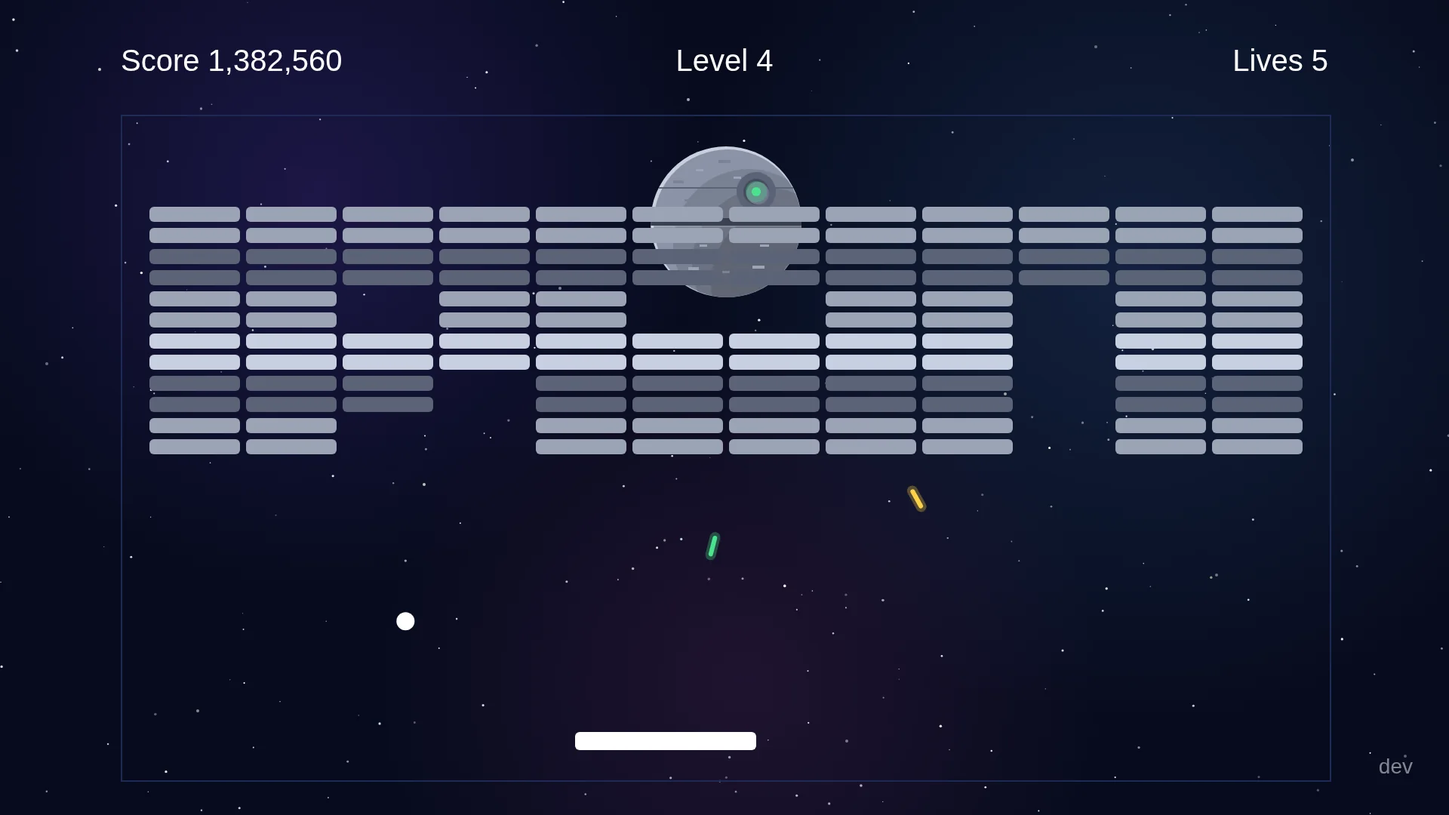
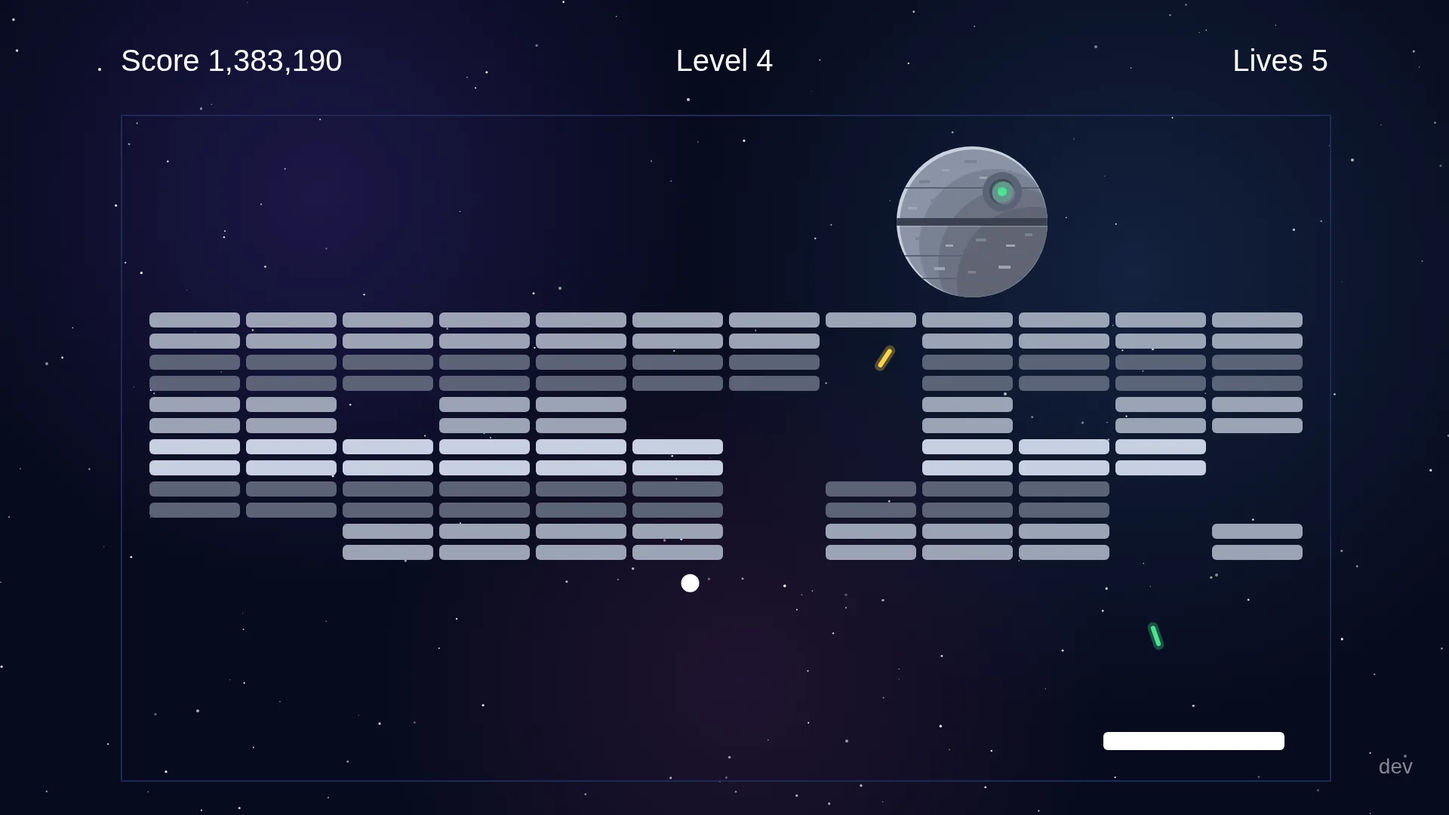
feat(site): show the level chooser and the sliding, wall-cutting station
Re-capture the title screen (now with the Level N chooser) and level 4
(station off-centre and charging, a green bolt coming down, a gold bolt
going up through the channel it has cut), and bring both pages in line
with specs 08 and 09: the station slides, batted-back bolts cut through
every brick, and the starting level is chosen on the title screen.
Re-render og.png from the new level 4 shot.

diff --git a/website/fa/index.html b/website/fa/index.html
@@ -22,26 +22,26 @@
   <meta property="og:url" content="https://breakout.cocode.dk/fa/" />
   <meta property="og:image" content="https://breakout.cocode.dk/og.png" />
   <meta property="og:image:width" content="1200" /><meta property="og:image:height" content="630" />
-  <meta property="og:image:alt" content="نوشتهی Breakout کنار تلویزیونی که مرحلهی ۴ را نشان میدهد: دیواری خاکستری با ایستگاه جنگی خاکستری پشت آن، تیری سبز که به سمت راکت میآید و تیری طلایی که برمیگردد." />
+  <meta property="og:image:alt" content="نوشتهی Breakout کنار تلویزیونی که مرحلهی ۴ را نشان میدهد: دیواری خاکستری با ایستگاه جنگی خاکستری پشت آن، تیری سبز که به سمت راکت میآید و تیری طلایی که از راهی که در دیوار باز کرده بالا میرود." />
   <meta property="og:locale" content="fa_IR" /><meta property="og:locale:alternate" content="en_US" />
   <meta name="twitter:card" content="summary_large_image" />
   <meta name="twitter:title" content="Breakout برای تلویزیون سامسونگ: چهار دیوار، یک بشقابپرنده و یک غول آخر" />
   <meta name="twitter:description" content="آجرشکن آرکیدی برای تلویزیونهای سامسونگ ۲۰۲۱. از چهار دیوار بگذرید، به بشقابپرنده بزنید، تیرهای ایستگاه را برای ۱٬۰۰۰ امتیاز پس بزنید، و هر جانی که نگه دارید امتیازتان را چند برابر میکند." />
   <meta name="twitter:image" content="https://breakout.cocode.dk/og.png" />
-  <meta name="twitter:image:alt" content="نوشتهی Breakout کنار تلویزیونی که مرحلهی ۴ را نشان میدهد: دیواری خاکستری با ایستگاه جنگی خاکستری پشت آن، تیری سبز که به سمت راکت میآید و تیری طلایی که برمیگردد." />
+  <meta name="twitter:image:alt" content="نوشتهی Breakout کنار تلویزیونی که مرحلهی ۴ را نشان میدهد: دیواری خاکستری با ایستگاه جنگی خاکستری پشت آن، تیری سبز که به سمت راکت میآید و تیری طلایی که از راهی که در دیوار باز کرده بالا میرود." />
   <script type="application/ld+json">
   {
     "@context": "https://schema.org", "@type": "SoftwareApplication", "name": "Breakout",
-    "description": "آجرشکن آرکیدی برای تلویزیونهای سامسونگ ۲۰۲۱ که با کیبورد یا کنترل تلویزیون روی آسمانی پرستاره بازی میشود. پشت سه دیوار یک بشقابپرنده است و پشت چهارمی ایستگاهی جنگی که تیر میزند؛ جانهایی که نگه میدارید امتیازتان را چند برابر میکنند. یک برنامهی وب تایزن، رایگان و متنباز، که در حالت توسعهدهنده نصب میشود.",
+    "description": "آجرشکن آرکیدی برای تلویزیونهای سامسونگ ۲۰۲۱ که با کیبورد یا کنترل تلویزیون روی آسمانی پرستاره بازی میشود. پشت سه دیوار یک بشقابپرنده است و پشت چهارمی ایستگاهی جنگی که آرام به چپ و راست میرود و تیر میزند؛ مرحلهی شروع را خودتان انتخاب میکنید و جانهایی که نگه میدارید امتیازتان را چند برابر میکنند. یک برنامهی وب تایزن، رایگان و متنباز، که در حالت توسعهدهنده نصب میشود.",
     "url": "https://breakout.cocode.dk/fa/", "downloadUrl": "https://github.com/cocodedk/breakout-tv/releases/latest",
     "screenshot": [
       {"@type":"ImageObject","contentUrl":"https://breakout.cocode.dk/img/breakout-level-1-wall-ufo.webp","caption":"مرحلهی ۱: دیوار کامل و بشقابپرندهی پشت آن"},
       {"@type":"ImageObject","contentUrl":"https://breakout.cocode.dk/img/breakout-level-2-checkerboard.webp","caption":"مرحلهی ۲: دیوار شطرنجی"},
       {"@type":"ImageObject","contentUrl":"https://breakout.cocode.dk/img/breakout-level-3-pyramid.webp","caption":"مرحلهی ۳: هرم زیر آجرهای نقرهای"},
-      {"@type":"ImageObject","contentUrl":"https://breakout.cocode.dk/img/breakout-level-4-battle-station.webp","caption":"مرحلهی ۴: ایستگاه جنگی که تیر شلیک میکند"},
+      {"@type":"ImageObject","contentUrl":"https://breakout.cocode.dk/img/breakout-level-4-battle-station.webp","caption":"مرحلهی ۴: ایستگاه جنگی متحرک و تیری طلایی که دیوار را میشکافد"},
       {"@type":"ImageObject","contentUrl":"https://breakout.cocode.dk/img/breakout-lives-multiplier.webp","caption":"هفت جان مانده: امتیاز ضرب در ۷"},
       {"@type":"ImageObject","contentUrl":"https://breakout.cocode.dk/img/breakout-game-over-retry.webp","caption":"پایان بازی، با گزینهی تکرار مرحلهی ۴"},
-      {"@type":"ImageObject","contentUrl":"https://breakout.cocode.dk/img/breakout-title-screen.webp","caption":"صفحهی اول بازی"}],
+      {"@type":"ImageObject","contentUrl":"https://breakout.cocode.dk/img/breakout-title-screen.webp","caption":"صفحهی اول بازی، با انتخاب مرحله"}],
     "applicationCategory": "GameApplication", "operatingSystem": "Tizen 6.0 (Samsung Smart TV)", "inLanguage": "fa",
     "offers": { "@type": "Offer", "price": "0", "priceCurrency": "USD" },
     "author": { "@type": "Person", "name": "Babak Bandpey", "url": "https://cocode.dk",
@@ -91,16 +91,16 @@
         <div class="scr"><img src="../img/breakout-level-3-pyramid.webp" width="1920" height="1080" loading="lazy" alt="مرحلهی ۳: دو ردیف آجر نقرهای بالای هرمی وارونه از آجرهای قرمز، نارنجی، زرد، سبز و آبی، و بشقابپرنده بالای آنها." /></div>
         <figcaption><h3><span class="tag">مرحلهی ۳</span>هرم</h3><p>دو ردیف آجر نقرهای از بالای دیوار محافظت میکنند و هر آجر نقرهای دو ضربه میخواهد.</p></figcaption></figure></li>
       <li class="lv boss"><figure>
-        <div class="scr"><img src="../img/breakout-level-4-battle-station.webp" width="1920" height="1080" loading="lazy" alt="مرحلهی ۴: دیواری خاکستری با ایستگاه جنگی گرد و خاکستری پشت آن که بشقابش در حال آمادهشدن برای شلیک سبز میدرخشد. تیری سبز به سمت راکت پایین میآید و تیری طلایی به سمت ایستگاه برمیگردد. امتیاز ۱٬۳۸۲٬۵۶۰، ۵ جان." /></div>
+        <div class="scr"><img src="../img/breakout-level-4-battle-station.webp" width="1920" height="1080" loading="lazy" alt="مرحلهی ۴: دیواری خاکستری و بالای آن ایستگاه جنگی گرد و خاکستری، کمی به سمت راست، که بشقابش در حال آمادهشدن برای شلیک سبز میدرخشد. تیری سبز به سمت راکت پایین میآید و تیری طلایی از راهی که خودش در دیوار باز کرده به سمت ایستگاه بالا میرود. امتیاز ۱٬۳۸۳٬۱۹۰، ۵ جان." /></div>
         <figcaption>
           <h3><span class="tag">مرحلهی ۴</span><span class="tag tag-boss">غول آخر</span>ایستگاه جنگی</h3>
-          <p>این بار بشقابپرندهای در کار نیست. ایستگاهی خاکستری پشت دیواری خاکستری ایستاده و به راکت شما شلیک میکند. درست پیش از هر شلیک، بشقابش سبز میدرخشد.</p>
-          <ul class="bolts"><li><i aria-hidden="true"></i><span><b>تیرهای سبز</b> به سمت راکت میآیند. تیری که از کنارتان رد شود هیچ هزینهای ندارد.</span></li>
-            <li class="gold"><i aria-hidden="true"></i><span><b>تیر را پس بزنید</b> تا طلایی شود. اگر به ایستگاه برسد، ۱٬۰۰۰ امتیاز میگیرید.</span></li></ul>
-          <p class="win">توپ را به خود ایستگاه برسانید تا مرحله را ببرید.</p>
+          <p>این بار بشقابپرندهای در کار نیست. ایستگاهی خاکستری پشت دیواری خاکستری آرام به چپ و راست میرود و به راکت شما شلیک میکند. درست پیش از هر شلیک، بشقابش سبز میدرخشد.</p>
+          <ul class="bolts"><li><i aria-hidden="true"></i><span><b>تیرهای سبز</b> به سمت راکت میآیند و از میان آجرها رد میشوند. تیری که از کنارتان رد شود هیچ هزینهای ندارد.</span></li>
+            <li class="gold"><i aria-hidden="true"></i><span><b>تیر را پس بزنید</b> تا طلایی شود. در راه بالا هر آجری را که سر راهش باشد میشکند، و اگر به ایستگاه برسد ۱٬۰۰۰ امتیاز میگیرید.</span></li></ul>
+          <p class="win">توپ را به خود ایستگاه برسانید تا مرحله را ببرید. تیر طلایی میتواند راهی به سمت آن باز کند.</p>
         </figcaption></figure></li>
     </ol>
-    <p class="loop"><strong>بعد دوباره از اول، تندتر.</strong> بعد از مرحلهی ۴ دیوارها از مرحلهی ۱ برمیگردند و هر دور توپ ۱۰ درصد تندتر شروع میکند. با فرسودهشدن دیوار هم کمکم سرعت میگیرد.</p>
+    <p class="loop"><strong>بعد دوباره از اول، تندتر.</strong> بعد از مرحلهی ۴ دیوارها از مرحلهی ۱ برمیگردند و هر دور توپ ۱۰ درصد تندتر شروع میکند. با فرسودهشدن دیوار هم کمکم سرعت میگیرد. همهی مرحلهها از اول باز است: در صفحهی اول انتخاب کنید از کدام مرحله شروع کنید.</p>
   </section>
   <section class="wrap sec" id="scoring">
     <h2>امتیاز چطور جمع میشود</h2>
@@ -113,7 +113,7 @@
     </ul>
     <ul class="rules">
       <li><span class="val">۵۰۰</span><h3>به بشقابپرنده یا ایستگاه بزنید</h3><p>برخورد توپ به بشقابپرنده در مرحلههای ۱ تا ۳، یا به ایستگاه در مرحلهی ۴، مرحله را تمام میکند: باقی دیوار محو میشود و مرحلهی بعد شروع میشود.</p></li>
-      <li><span class="val">+۱٬۰۰۰</span><h3>تیر را پس بزنید</h3><p>در مرحلهی ۴، تیر سبز را با راکت بگیرید. طلایی برمیگردد، و اگر به ایستگاه برسد ۱٬۰۰۰ امتیاز دارد.</p></li>
+      <li><span class="val">+۱٬۰۰۰</span><h3>تیر را پس بزنید</h3><p>در مرحلهی ۴، تیر سبز را با راکت بگیرید. طلایی برمیگردد و هر آجری را که به آن بخورد از بین میبرد، حتی آجر نقرهای را، و امتیاز هر آجر را مثل شکستن با توپ میگیرید. اگر به ایستگاه هم برسد، ۱٬۰۰۰ امتیاز دیگر دارد.</p></li>
       <li><span class="val"><span class="rainbow">× جانها</span></span><h3>جانهایتان را نگه دارید</h3><p>هر مرحله ۱۰ جان دارد. وقتی مرحله تمام میشود، کل امتیازتان در تعداد جانهای باقیمانده ضرب میشود.</p></li>
     </ul>
     <div class="moments">
@@ -131,12 +131,12 @@
         <dl>
           <dt>حرکت (نگه دارید)</dt><dd><span class="grp" dir="ltr"><kbd>←</kbd><kbd>→</kbd></span> یا <span class="grp" dir="ltr"><kbd>A</kbd><kbd>D</kbd></span></dd><dt>پرتاب توپ</dt><dd><kbd>Space</kbd> یا <kbd>Enter</kbd></dd>
           <dt>مکث</dt><dd><kbd>P</kbd></dd><dt>برگشت</dt><dd><kbd>Esc</kbd> یا <kbd>Backspace</kbd></dd>
-          <dt>صدا روشن/خاموش</dt><dd><kbd>M</kbd></dd><dt>منوها</dt><dd><span class="grp" dir="ltr"><kbd>↑</kbd><kbd>↓</kbd><kbd>←</kbd><kbd>→</kbd></span> بعد <kbd>Enter</kbd></dd>
+          <dt>صدا روشن/خاموش</dt><dd><kbd>M</kbd></dd><dt>مرحله (صفحهی اول)</dt><dd><span class="grp" dir="ltr"><kbd>←</kbd><kbd>→</kbd></span> یا <span class="grp" dir="ltr"><kbd>A</kbd><kbd>D</kbd></span></dd><dt>منوها</dt><dd><span class="grp" dir="ltr"><kbd>↑</kbd><kbd>↓</kbd><kbd>←</kbd><kbd>→</kbd></span> بعد <kbd>Enter</kbd></dd>
         </dl></div>
       <div class="pad remote"><h3>کنترل تلویزیون</h3>
         <dl>
           <dt>حرکت (نگه دارید)</dt><dd><span class="grp" dir="ltr"><kbd>←</kbd><kbd>→</kbd></span></dd><dt>پرتاب توپ</dt><dd><kbd>OK</kbd></dd>
-          <dt>مکث، برگشت</dt><dd><kbd>Back</kbd></dd><dt>منوها</dt><dd><span class="grp" dir="ltr"><kbd>↑</kbd><kbd>↓</kbd><kbd>←</kbd><kbd>→</kbd></span> بعد <kbd>OK</kbd></dd>
+          <dt>مکث، برگشت</dt><dd><kbd>Back</kbd></dd><dt>مرحله (صفحهی اول)</dt><dd><span class="grp" dir="ltr"><kbd>←</kbd><kbd>→</kbd></span></dd><dt>منوها</dt><dd><span class="grp" dir="ltr"><kbd>↑</kbd><kbd>↓</kbd><kbd>←</kbd><kbd>→</kbd></span> بعد <kbd>OK</kbd></dd>
         </dl></div>
     </div>
     <div class="feel">
@@ -147,8 +147,8 @@
         <p class="more">دکمهی برگشت همیشه کاری میکند: وسط بازی، بازی را نگه میدارد؛ در منو، آن را میبندد؛ و در صفحهی اول، پیش از خروج میپرسد. هر برخورد یک بوق کوتاه دارد و زدن بشقابپرنده صدای انفجاری چندلایه؛ با M صدا قطع میشود.</p>
       </div>
       <figure>
-        <div class="scr"><img src="../img/breakout-title-screen.webp" width="1920" height="1080" loading="lazy" alt="صفحهی اول روی آسمانی پرستاره: نوشتهی بزرگ Breakout، جملهی Press Enter or OK to start، بهترین امتیاز ۱٬۳۸۶٬۹۴۰ و کنترلها." /></div>
-        <figcaption>صفحهی اول، بهترین امتیازتان و کنترلها را نشان میدهد.</figcaption></figure>
+        <div class="scr"><img src="../img/breakout-title-screen.webp" width="1920" height="1080" loading="lazy" alt="صفحهی اول روی آسمانی پرستاره: نوشتهی بزرگ Breakout، جملهی Press Enter or OK to start، انتخابگر مرحله با نوشتهی Level 2 و پیکانهایی در دو طرف آن، بهترین امتیاز ۱٬۳۸۶٬۹۴۰ و کنترلها." /></div>
+        <figcaption>در صفحهی اول با <span dir="ltr">← →</span> مرحلهی شروع را انتخاب میکنید و بازی آن را به خاطر میسپارد؛ زیرش بهترین امتیازتان و کنترلها را میبینید.</figcaption></figure>
     </div>
   </section>
   <section class="wrap sec" id="install">

diff --git a/website/index.html b/website/index.html
@@ -22,26 +22,26 @@
   <meta property="og:url" content="https://breakout.cocode.dk/" />
   <meta property="og:image" content="https://breakout.cocode.dk/og.png" />
   <meta property="og:image:width" content="1200" /><meta property="og:image:height" content="630" />
-  <meta property="og:image:alt" content="The word Breakout beside a TV showing level 4: a grey wall with a grey battle station behind it, a green bolt falling towards the paddle and a gold one flying back." />
+  <meta property="og:image:alt" content="The word Breakout beside a TV showing level 4: a grey wall with a grey battle station behind it, a green bolt falling towards the paddle and a gold one flying back up the channel it cut through the wall." />
   <meta property="og:locale" content="en_US" /><meta property="og:locale:alternate" content="fa_IR" />
   <meta name="twitter:card" content="summary_large_image" />
   <meta name="twitter:title" content="Breakout for Samsung TV: four walls, a UFO and a boss" />
   <meta name="twitter:description" content="The arcade brick breaker for 2021 Samsung TVs. Break four walls, hit the UFO, bat the station's bolts back for 1,000, and every life you keep multiplies your score." />
   <meta name="twitter:image" content="https://breakout.cocode.dk/og.png" />
-  <meta name="twitter:image:alt" content="The word Breakout beside a TV showing level 4: a grey wall with a grey battle station behind it, a green bolt falling towards the paddle and a gold one flying back." />
+  <meta name="twitter:image:alt" content="The word Breakout beside a TV showing level 4: a grey wall with a grey battle station behind it, a green bolt falling towards the paddle and a gold one flying back up the channel it cut through the wall." />
   <script type="application/ld+json">
   {
     "@context": "https://schema.org", "@type": "SoftwareApplication", "name": "Breakout",
-    "description": "The arcade brick breaker for 2021 Samsung TVs, played with a keyboard or the TV remote on a deep-space sky. Three walls hide a UFO and the fourth a battle station that fires back; the lives you keep multiply your score. A free, open-source Tizen web app you sideload in developer mode.",
+    "description": "The arcade brick breaker for 2021 Samsung TVs, played with a keyboard or the TV remote on a deep-space sky. Three walls hide a UFO and the fourth a sliding battle station that fires back; you pick the level to start on, and the lives you keep multiply your score. A free, open-source Tizen web app you sideload in developer mode.",
     "url": "https://breakout.cocode.dk/", "downloadUrl": "https://github.com/cocodedk/breakout-tv/releases/latest",
     "screenshot": [
       {"@type":"ImageObject","contentUrl":"https://breakout.cocode.dk/img/breakout-level-1-wall-ufo.webp","caption":"Level 1: the full wall, with the UFO behind it"},
       {"@type":"ImageObject","contentUrl":"https://breakout.cocode.dk/img/breakout-level-2-checkerboard.webp","caption":"Level 2: the checkerboard"},
       {"@type":"ImageObject","contentUrl":"https://breakout.cocode.dk/img/breakout-level-3-pyramid.webp","caption":"Level 3: the pyramid under silver bricks"},
-      {"@type":"ImageObject","contentUrl":"https://breakout.cocode.dk/img/breakout-level-4-battle-station.webp","caption":"Level 4: the battle station firing bolts"},
+      {"@type":"ImageObject","contentUrl":"https://breakout.cocode.dk/img/breakout-level-4-battle-station.webp","caption":"Level 4: the sliding battle station, with a gold bolt cutting through the wall"},
       {"@type":"ImageObject","contentUrl":"https://breakout.cocode.dk/img/breakout-lives-multiplier.webp","caption":"Seven lives left: the score multiplied by 7"},
       {"@type":"ImageObject","contentUrl":"https://breakout.cocode.dk/img/breakout-game-over-retry.webp","caption":"Game over, with Retry level 4"},
-      {"@type":"ImageObject","contentUrl":"https://breakout.cocode.dk/img/breakout-title-screen.webp","caption":"The title screen"}],
+      {"@type":"ImageObject","contentUrl":"https://breakout.cocode.dk/img/breakout-title-screen.webp","caption":"The title screen, with the level chooser"}],
     "applicationCategory": "GameApplication", "operatingSystem": "Tizen 6.0 (Samsung Smart TV)", "inLanguage": ["en", "fa"],
     "offers": { "@type": "Offer", "price": "0", "priceCurrency": "USD" },
     "author": { "@type": "Person", "name": "Babak Bandpey", "url": "https://cocode.dk",
@@ -91,16 +91,16 @@
         <div class="scr"><img src="img/breakout-level-3-pyramid.webp" width="1920" height="1080" loading="lazy" alt="Level 3: two rows of silver bricks over an upside-down pyramid of red, orange, yellow, green and blue bricks, with the UFO above." /></div>
         <figcaption><h3><span class="tag">Level 3</span>The pyramid</h3><p>Two rows of silver bricks guard the top, and each silver brick takes two hits.</p></figcaption></figure></li>
       <li class="lv boss"><figure>
-        <div class="scr"><img src="img/breakout-level-4-battle-station.webp" width="1920" height="1080" loading="lazy" alt="Level 4: a grey wall with a round grey battle station behind it, its dish glowing green as it charges. A green bolt falls towards the paddle and a gold bolt flies back up at the station. Score 1,382,560, 5 lives." /></div>
+        <div class="scr"><img src="img/breakout-level-4-battle-station.webp" width="1920" height="1080" loading="lazy" alt="Level 4: a grey wall with a round grey battle station off to the right above it, its dish glowing green as it charges. A green bolt falls towards the paddle, and a gold bolt flies up at the station through a channel it has cut in the wall. Score 1,383,190, 5 lives." /></div>
         <figcaption>
           <h3><span class="tag">Level 4</span><span class="tag tag-boss">Boss</span>The battle station</h3>
-          <p>No UFO this time. A grey station hangs behind a grey wall and fires at your paddle. Its dish glows green just before each shot.</p>
-          <ul class="bolts"><li><i aria-hidden="true"></i><span><b>Green bolts</b> come down at the paddle. One that gets past costs you nothing.</span></li>
-            <li class="gold"><i aria-hidden="true"></i><span><b>Bat one back</b> and it turns gold. If it reaches the station, that's 1,000 points.</span></li></ul>
-          <p class="win">Get the ball itself into the station and the level is won.</p>
+          <p>No UFO this time. A grey station slides slowly from side to side behind a grey wall and fires at your paddle. Its dish glows green just before each shot.</p>
+          <ul class="bolts"><li><i aria-hidden="true"></i><span><b>Green bolts</b> come down at the paddle, straight through the bricks. One that gets past costs you nothing.</span></li>
+            <li class="gold"><i aria-hidden="true"></i><span><b>Bat one back</b> and it turns gold. It cuts through every brick on its way up, and if it reaches the station that's 1,000 points.</span></li></ul>
+          <p class="win">Get the ball itself into the station and the level is won. A gold bolt can clear you a path to it.</p>
         </figcaption></figure></li>
     </ol>
-    <p class="loop"><strong>Then round again, faster.</strong> After level 4 the walls come back from level 1 and the ball starts 10% faster each time. It also picks up speed as a wall wears down.</p>
+    <p class="loop"><strong>Then round again, faster.</strong> After level 4 the walls come back from level 1 and the ball starts 10% faster each time. It also picks up speed as a wall wears down. Every level is open from the start: pick where to begin on the title screen.</p>
   </section>
   <section class="wrap sec" id="scoring">
     <h2>How the score adds up</h2>
@@ -113,7 +113,7 @@
     </ul>
     <ul class="rules">
       <li><span class="val">500</span><h3>Hit the UFO or the station</h3><p>The ball touching the UFO on levels 1 to 3, or the station on level 4, ends the level: the rest of the wall dissolves and the next one begins.</p></li>
-      <li><span class="val">+1,000</span><h3>Bat a bolt back</h3><p>On level 4, catch a green bolt on the paddle. It flies back gold, and if it reaches the station it's worth 1,000.</p></li>
+      <li><span class="val">+1,000</span><h3>Bat a bolt back</h3><p>On level 4, catch a green bolt on the paddle. It flies back gold and destroys every brick it touches, silver ones too, scoring each as if the ball had broken it. If it reaches the station it's worth 1,000 more.</p></li>
       <li><span class="val"><span class="rainbow">× lives</span></span><h3>Keep your lives</h3><p>You get 10 lives on every level. When a level ends, your whole score is multiplied by the lives you have left.</p></li>
     </ul>
     <div class="moments">
@@ -131,12 +131,12 @@
         <dl>
           <dt>Move (hold)</dt><dd><span class="grp"><kbd>←</kbd><kbd>→</kbd></span> or <span class="grp"><kbd>A</kbd><kbd>D</kbd></span></dd><dt>Launch the ball</dt><dd><kbd>Space</kbd> or <kbd>Enter</kbd></dd>
           <dt>Pause</dt><dd><kbd>P</kbd></dd><dt>Back</dt><dd><kbd>Esc</kbd> or <kbd>Backspace</kbd></dd>
-          <dt>Sound on/off</dt><dd><kbd>M</kbd></dd><dt>Menus</dt><dd><span class="grp"><kbd>↑</kbd><kbd>↓</kbd><kbd>←</kbd><kbd>→</kbd></span> then <kbd>Enter</kbd></dd>
+          <dt>Sound on/off</dt><dd><kbd>M</kbd></dd><dt>Level (title)</dt><dd><span class="grp"><kbd>←</kbd><kbd>→</kbd></span> or <span class="grp"><kbd>A</kbd><kbd>D</kbd></span></dd><dt>Menus</dt><dd><span class="grp"><kbd>↑</kbd><kbd>↓</kbd><kbd>←</kbd><kbd>→</kbd></span> then <kbd>Enter</kbd></dd>
         </dl></div>
       <div class="pad remote"><h3>TV remote</h3>
         <dl>
           <dt>Move (hold)</dt><dd><span class="grp"><kbd>←</kbd><kbd>→</kbd></span></dd><dt>Launch the ball</dt><dd><kbd>OK</kbd></dd>
-          <dt>Pause, back</dt><dd><kbd>Back</kbd></dd><dt>Menus</dt><dd><span class="grp"><kbd>↑</kbd><kbd>↓</kbd><kbd>←</kbd><kbd>→</kbd></span> then <kbd>OK</kbd></dd>
+          <dt>Pause, back</dt><dd><kbd>Back</kbd></dd><dt>Level (title)</dt><dd><span class="grp"><kbd>←</kbd><kbd>→</kbd></span></dd><dt>Menus</dt><dd><span class="grp"><kbd>↑</kbd><kbd>↓</kbd><kbd>←</kbd><kbd>→</kbd></span> then <kbd>OK</kbd></dd>
         </dl></div>
     </div>
     <div class="feel">
@@ -147,8 +147,8 @@
         <p class="more">Back always does something: in play it pauses, in a menu it closes it, and on the title it asks before leaving. Every bounce beeps, and hitting the UFO sets off a layered crash; M turns the sound off.</p>
       </div>
       <figure>
-        <div class="scr"><img src="img/breakout-title-screen.webp" width="1920" height="1080" loading="lazy" alt="The title screen on a starry sky: Breakout in large white letters, Press Enter or OK to start, best score 1,386,940 and the controls." /></div>
-        <figcaption>The title screen shows your best score and the controls.</figcaption></figure>
+        <div class="scr"><img src="img/breakout-title-screen.webp" width="1920" height="1080" loading="lazy" alt="The title screen on a starry sky: Breakout in large white letters, Press Enter or OK to start, a level chooser reading ◀ Level 2 ▶, best score 1,386,940 and the controls." /></div>
+        <figcaption>On the title screen, ← and → choose the level you start on (it's remembered), above your best score and the controls.</figcaption></figure>
     </div>
   </section>
   <section class="wrap sec" id="install">
